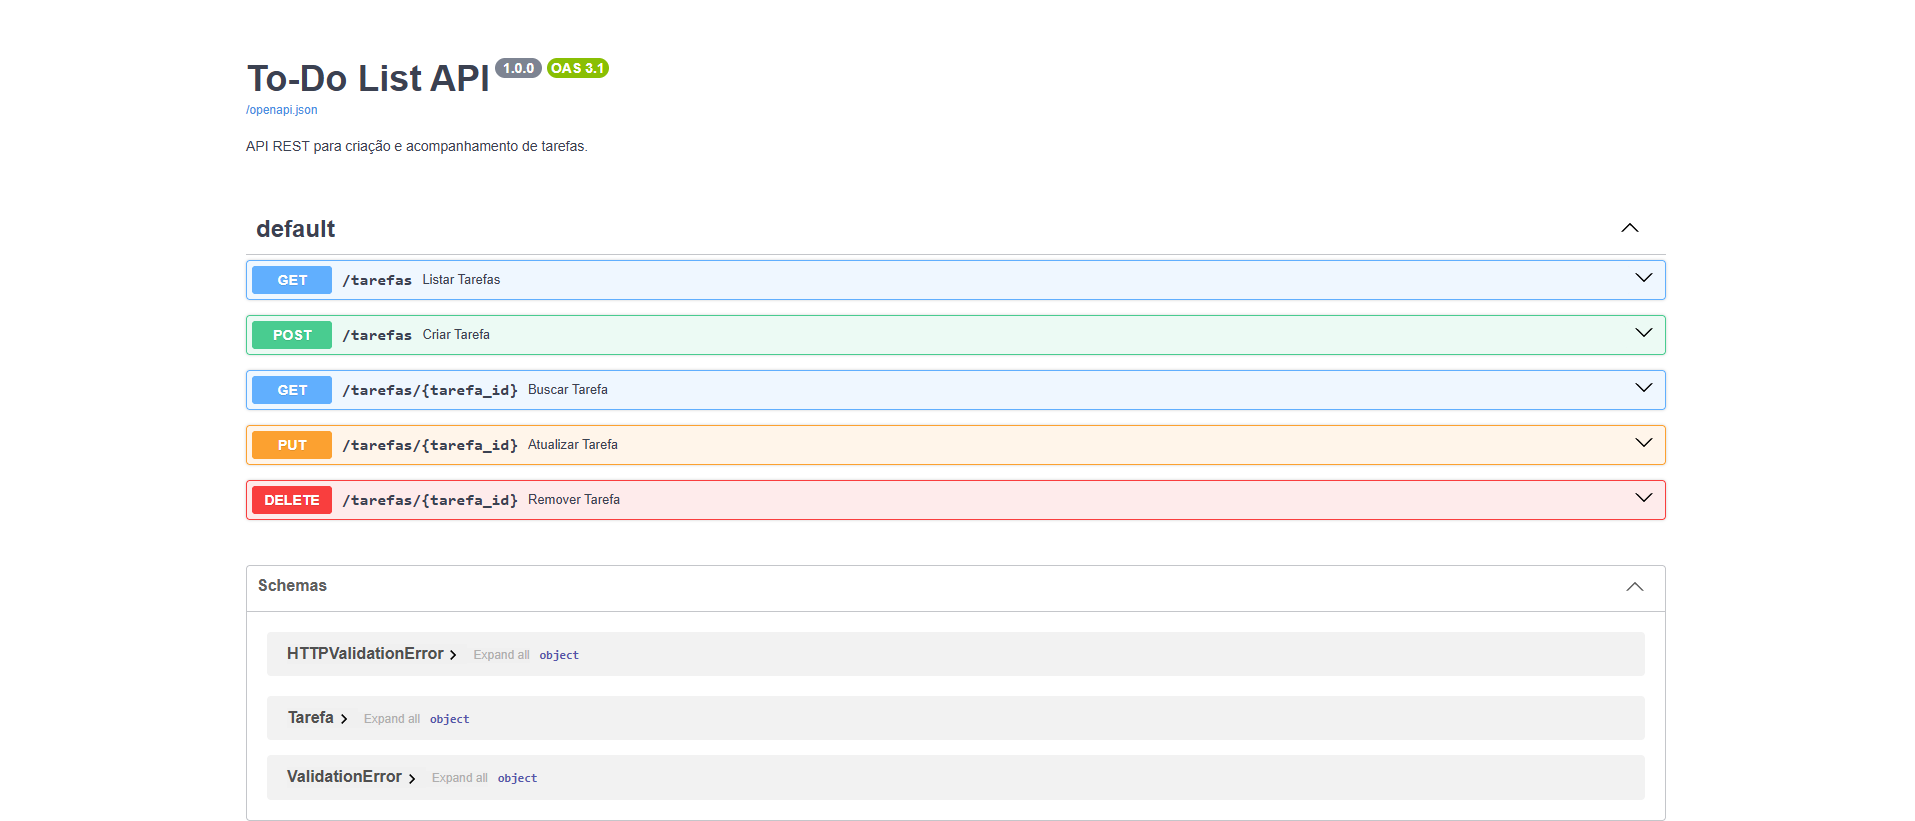
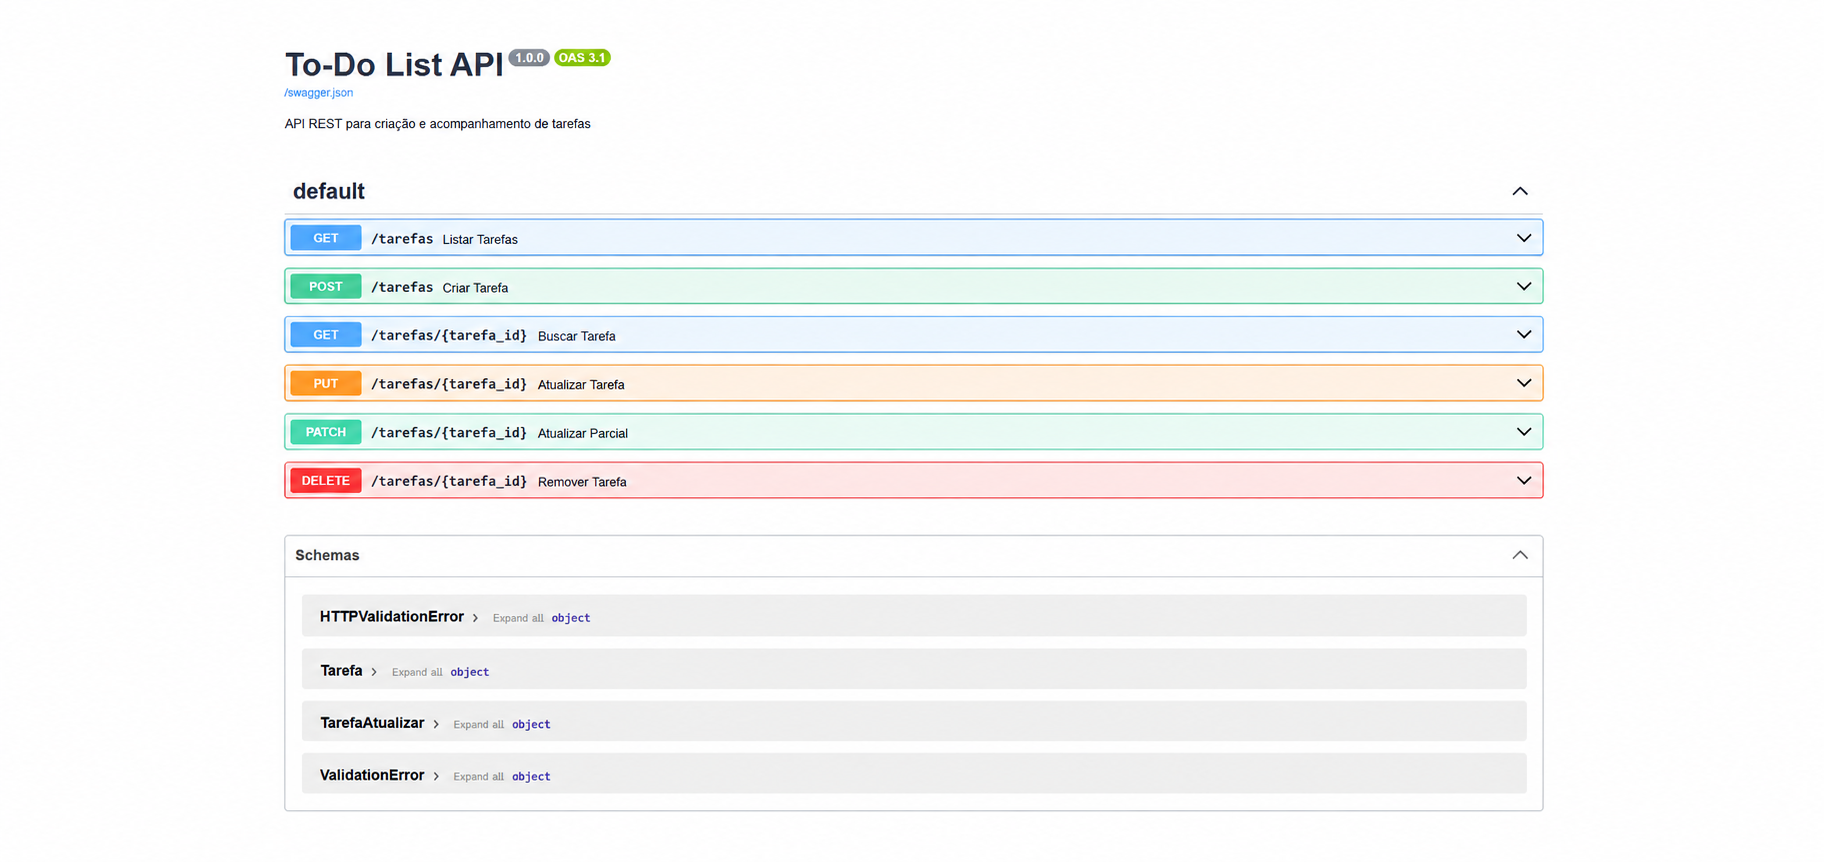
Adiciona PATCH e extrai aplicar_alteracoes para evitar repetição

diff --git a/main.py b/main.py
@@ -25,8 +25,10 @@ class Tarefa(BaseModel):
     descricao: str = ""
     concluida: bool = False
 
-tarefas = []
-proximo_id = 1
+class TarefaAtualizar(BaseModel):
+    titulo: str | None = None
+    descricao: str | None = None
+    concluida: bool | None = None
 
 
 def encontrar_tarefa(tarefa_id: int, db: Session):
@@ -56,6 +58,15 @@ def criar_tarefa(tarefa: Tarefa, db: Session = Depends(get_db)):
 def atualizar_tarefa(tarefa_id: int, dados: Tarefa, db: Session = Depends(get_db)):
     tarefa = encontrar_tarefa(tarefa_id, db)
     for campo, valor in dados.model_dump().items():
+        setattr(tarefa, campo, valor)
+    db.commit()
+    db.refresh(tarefa)
+    return tarefa
+
+@app.patch("/tarefas/{tarefa_id}")
+def atualizar_parcial(tarefa_id: int, dados: TarefaAtualizar, db: Session = Depends(get_db)):
+    tarefa = encontrar_tarefa(tarefa_id, db)
+    for campo, valor in dados.model_dump(exclude_unset=True).items():
         setattr(tarefa, campo, valor)
     db.commit()
     db.refresh(tarefa)
